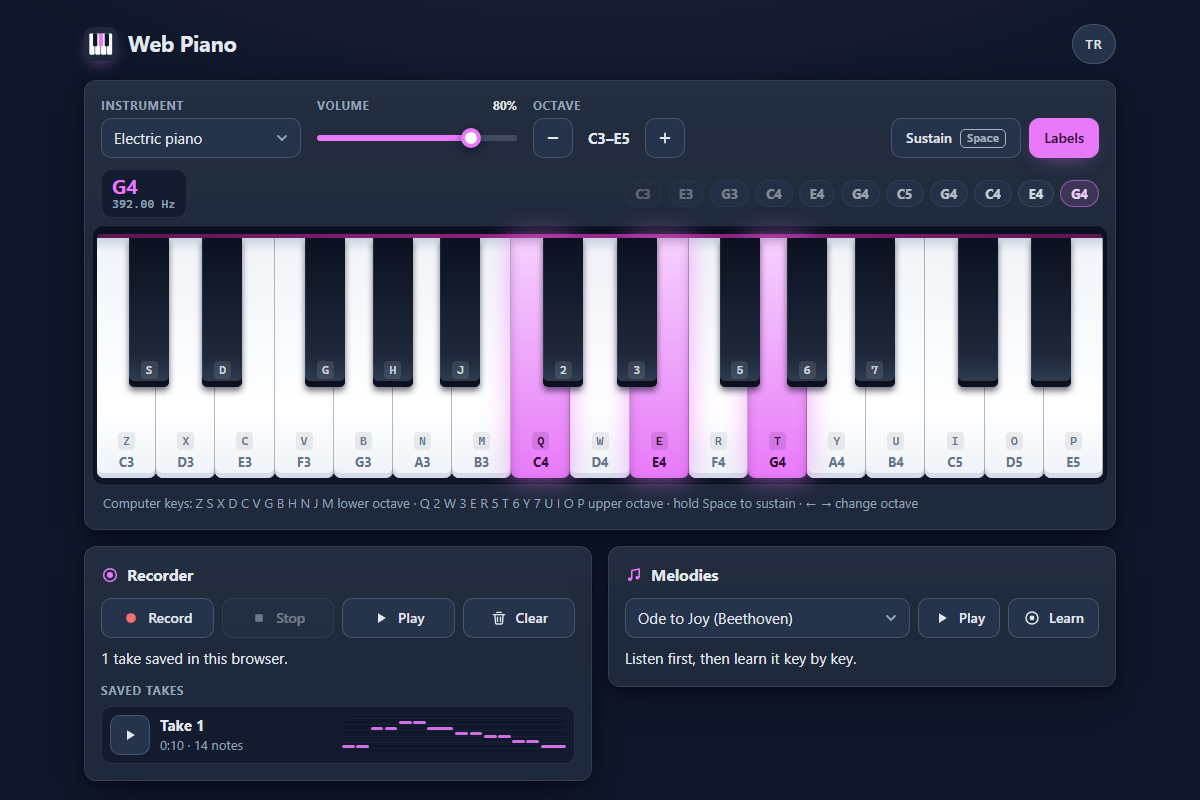
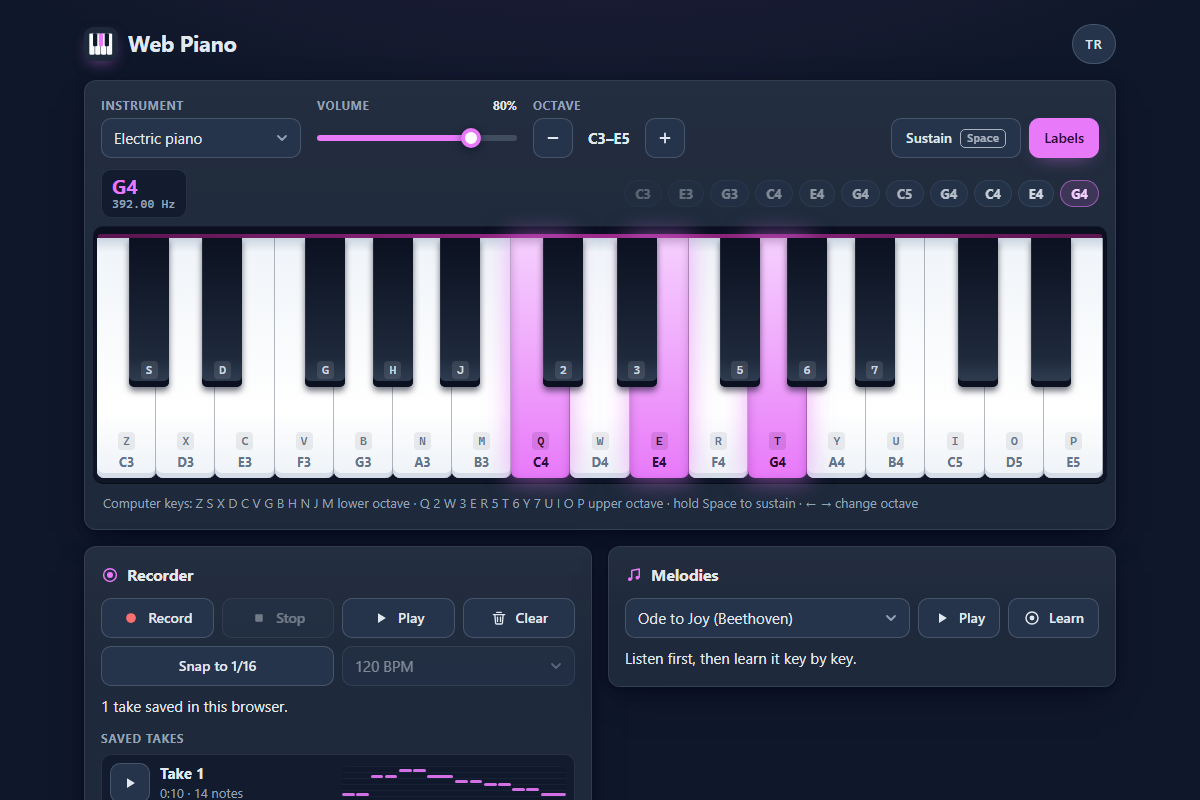
Polish: snap recordings to 1/16 on playback

diff --git a/src/main.js b/src/main.js
@@ -13,7 +13,7 @@ import { MELODIES } from './melodies.js';
 import { midiToFrequency } from './music.js';
 import { createPiano } from './piano.js';
 import { activeNotesAt, scheduleDuration, scheduleFromMelody, scheduleFromRecording } from './player.js';
-import { recordingsFromJSON, recordingsToJSON } from './recorder.js';
+import { SNAP_TEMPOS, recordingsFromJSON, recordingsToJSON, snapTempo, takeForPlayback } from './recorder.js';
 import { loadText, saveText } from './storage.js';
 import { createSynth } from './synth.js';
 import { renderTakes } from './takes-view.js';
@@ -55,6 +55,8 @@ const ui = {
   clear: byId('rec-clear'),
   clearLabel: byId('rec-clear-label'),
   recStatus: byId('rec-status'),
+  snap: byId('rec-snap'),
+  tempo: byId('rec-tempo'),
   takesTitle: byId('takes-title'),
   takes: byId('takes'),
   melody: byId('melody'),
@@ -79,6 +81,8 @@ const settings = {
   instrument: getInstrument(load('instrument')).id,
   volume: savedVolume(),
   labels: load('labels') !== 'off',
+  snap: load('snap') === 'on',
+  bpm: snapTempo(load('bpm')),
   melody: MELODIES.find((melody) => melody.id === load('melody'))?.id ?? MELODIES[0].id,
 };
 
@@ -210,7 +214,7 @@ function toggleTake(id) {
 
 function playTake(take) {
   notice = null;
-  startPlayback('take', take.id, scheduleFromRecording(take));
+  startPlayback('take', take.id, scheduleFromRecording(takeForPlayback(take, settings)));
 }
 
 /** The first click arms Clear; a second click within a few seconds deletes every take. */
@@ -301,12 +305,13 @@ function endPlayback() {
 
 function applyLanguage() {
   const { language } = settings;
-  const t = (key) => translate(language, key);
+  const t = (key, params) => translate(language, key, params);
   document.documentElement.lang = language;
   document.title = t('app.title');
   document.querySelectorAll('[data-i18n]').forEach((node) => setText(node, t(node.dataset.i18n)));
   document.querySelectorAll('[data-i18n-label]').forEach((node) => node.setAttribute('aria-label', t(node.dataset.i18nLabel)));
   fillSelect(ui.instrument, INSTRUMENTS.map(({ id }) => [id, t(`instrument.${id}`)]), settings.instrument);
+  fillSelect(ui.tempo, SNAP_TEMPOS.map((bpm) => [String(bpm), t('rec.bpm', { bpm })]), String(settings.bpm));
   fillSelect(ui.melody, MELODIES.map(({ id }) => [id, t(`melody.${id}`)]), settings.melody);
   render();
 }
@@ -373,6 +378,8 @@ function renderRecorder(state, t) {
   ui.play.disabled = recording || recordings.length === 0;
   ui.clear.disabled = recording || recordings.length === 0;
   ui.clear.classList.toggle('is-armed', clearTimer !== null);
+  ui.snap.setAttribute('aria-pressed', String(settings.snap));
+  ui.tempo.disabled = !settings.snap;
   setText(ui.clearLabel, t(clearTimer === null ? 'rec.clear' : 'rec.confirm'));
   setText(ui.recStatus, recorderStatus(state, playingId, t));
   ui.takesTitle.hidden = recordings.length === 0;
@@ -453,6 +460,15 @@ ui.record.addEventListener('click', toggleRecording);
 ui.stop.addEventListener('click', stopRecorder);
 ui.play.addEventListener('click', playNewestTake);
 ui.clear.addEventListener('click', clearTakes);
+ui.snap.addEventListener('click', () => {
+  settings.snap = !settings.snap;
+  save('snap', settings.snap ? 'on' : 'off');
+  render();
+});
+ui.tempo.addEventListener('change', () => {
+  settings.bpm = snapTempo(ui.tempo.value);
+  save('bpm', String(settings.bpm));
+});
 ui.takes.addEventListener('click', (event) => {
   const button = event.target.closest('[data-take]');
   if (button) toggleTake(Number(button.dataset.take));

diff --git a/test/recorder.test.js b/test/recorder.test.js
@@ -9,6 +9,10 @@ import {
   recordingsFromJSON,
   recordingsToJSON,
   sixteenthMs,
+  snapTempo,
+  takeForPlayback,
+  DEFAULT_SNAP_TEMPO,
+  SNAP_TEMPOS,
 } from '../src/recorder.js';
 
 const on = (midi, time) => ({ type: 'on', midi, time });
@@ -201,4 +205,25 @@ test('takes are numbered and only the newest are kept', () => {
   let full = [];
   for (let count = 0; count < MAX_RECORDINGS + 2; count += 1) full = addRecording(full, take);
   assert.equal(full.length, MAX_RECORDINGS);
+});
+
+test('snapTempo accepts only the offered tempos', () => {
+  for (const bpm of SNAP_TEMPOS) assert.equal(snapTempo(String(bpm)), bpm);
+  assert.equal(snapTempo(null), DEFAULT_SNAP_TEMPO);
+  assert.equal(snapTempo('abc'), DEFAULT_SNAP_TEMPO);
+  assert.equal(snapTempo('121'), DEFAULT_SNAP_TEMPO);
+});
+
+test('takeForPlayback snaps a take only when snapping is on and keeps the saved take', () => {
+  // 120 BPM: one sixteenth = 125 ms.
+  const take = { id: 3, events: [on(60, 0), off(60, 110), on(64, 260), off(64, 490)], duration: 490 };
+  const copy = structuredClone(take);
+  assert.equal(takeForPlayback(take, { snap: false, bpm: 120 }), take);
+  const snapped = takeForPlayback(take, { snap: true, bpm: 120 });
+  assert.deepEqual(recordingToNotes(snapped), [
+    { midi: 60, start: 0, end: 125 },
+    { midi: 64, start: 250, end: 500 },
+  ]);
+  assert.equal(snapped.id, 3);
+  assert.deepEqual(take, copy);
 });

diff --git a/src/recorder.js b/src/recorder.js
@@ -127,6 +127,32 @@ export function quantizeRecording(recording, bpm) {
   return { ...recording, ...notesToRecording(separateRepeats(snapped)) };
 }
 
+/** Tempos offered for snapping takes to the 1/16 grid, in BPM. */
+export const SNAP_TEMPOS = [60, 80, 100, 120, 140, 160];
+/** Tempo used when no valid snap tempo was saved. */
+export const DEFAULT_SNAP_TEMPO = 120;
+
+/**
+ * Reads a saved snap tempo; anything that is not one of SNAP_TEMPOS gives the default.
+ * @param {unknown} value E.g. the text kept in storage.
+ * @returns {number} One of SNAP_TEMPOS.
+ */
+export function snapTempo(value) {
+  const bpm = Number(value);
+  return SNAP_TEMPOS.includes(bpm) ? bpm : DEFAULT_SNAP_TEMPO;
+}
+
+/**
+ * The version of a take to play back: snapped to the 1/16 grid when snapping is
+ * on, otherwise the take itself. The saved take is never changed.
+ * @param {Recording} take
+ * @param {{ snap: boolean, bpm: number }} options
+ * @returns {Recording}
+ */
+export function takeForPlayback(take, { snap, bpm }) {
+  return snap ? quantizeRecording(take, bpm) : take;
+}
+
 /**
  * Appends a take to a list and numbers it with the next free id (1, 2, 3 ...).
  * @param {Recording[]} list

diff --git a/src/i18n.js b/src/i18n.js
@@ -55,6 +55,9 @@ export const STRINGS = {
     'rec.saved.one': '{count} take saved in this browser.',
     'rec.saved.other': '{count} takes saved in this browser.',
     'rec.takes': 'Saved takes',
+    'rec.snap': 'Snap to 1/16',
+    'rec.tempo': 'Snap tempo',
+    'rec.bpm': '{bpm} BPM',
     'take.name': 'Take {id}',
     'take.play': 'Play take {id}',
     'take.stop': 'Stop take {id}',
@@ -115,6 +118,9 @@ export const STRINGS = {
     'rec.saved.one': '{count} kayıt bu tarayıcıda saklı.',
     'rec.saved.other': '{count} kayıt bu tarayıcıda saklı.',
     'rec.takes': 'Saklanan kayıtlar',
+    'rec.snap': '1/16’ya hizala',
+    'rec.tempo': 'Hizalama temposu',
+    'rec.bpm': '{bpm} vuruş/dk',
     'take.name': 'Kayıt {id}',
     'take.play': '{id}. kaydı çal',
     'take.stop': '{id}. kaydı durdur',

diff --git a/index.html b/index.html
@@ -112,6 +112,12 @@
                 <span id="rec-clear-label">Clear</span>
               </button>
             </div>
+            <div class="snap-row">
+              <button id="rec-snap" class="btn btn--toggle" type="button" aria-pressed="false">
+                <span data-i18n="rec.snap">Snap to 1/16</span>
+              </button>
+              <select id="rec-tempo" class="select" aria-label="Snap tempo" data-i18n-label="rec.tempo"></select>
+            </div>
             <p id="rec-status" class="status"></p>
             <h3 id="takes-title" class="subhead" data-i18n="rec.takes" hidden>Saved takes</h3>
             <ul id="takes" class="takes"></ul>

diff --git a/style.css b/style.css
@@ -248,6 +248,11 @@ select {
   transition: border-color var(--fast) ease;
 }
 
+.select:disabled {
+  opacity: 0.5;
+  cursor: not-allowed;
+}
+
 .select option {
   background: var(--surface);
   color: var(--text);
@@ -654,6 +659,13 @@ select {
   min-height: 52px;
   padding: 6px 4px;
   font-size: 0.8125rem;
+}
+
+.snap-row {
+  display: grid;
+  grid-template-columns: minmax(0, 1fr) minmax(0, 1fr);
+  gap: 8px;
+  margin-top: 8px;
 }
 
 .icon--record {

diff --git a/README.md b/README.md
@@ -19,6 +19,7 @@ A piano that runs in any modern browser, on a phone or a desktop. It has no depe
 - **Recorder:** Record, Stop, Play and Clear.
   - Up to 8 takes are kept in this browser.
   - Each take has a mini piano roll and its own play button.
+  - Optional **Snap to 1/16**: playback snaps notes to a sixteenth-note grid at the chosen tempo (60–160 BPM); the saved take stays untouched.
 - **Melodies:** three public-domain melodies: Ode to Joy, Twinkle Twinkle Little Star and Frère Jacques.
   - Listen to one and watch its keys light up.
   - Or practise it in Learn mode, which marks the next key, waits until you press it and counts mistakes.
@@ -139,6 +140,7 @@ Telefonda da bilgisayarda da her modern tarayıcıda çalışan bir piyano. Bağ
 - **Kayıt:** Kaydet, Durdur, Çal ve Temizle.
   - En fazla 8 kayıt bu tarayıcıda saklanır.
   - Her kaydın küçük bir piyano rulosu ve kendi çal düğmesi var.
+  - İsteğe bağlı **1/16’ya hizala**: çalarken notalar seçilen tempoda (60–160 BPM) on altılık ızgaraya oturur; saklanan kayıt değişmez.
 - **Melodiler:** kamu malı üç melodi: Neşeye Övgü, Parla Parla Küçük Yıldız ve Tembel Çocuk (Frère Jacques).
   - Bir melodiyi dinleyip tuşlarının yanışını izleyebilirsin.
   - Ya da Öğren modunda çalışabilirsin: sıradaki tuş işaretlenir, sen basana kadar beklenir ve hatalar sayılır.
